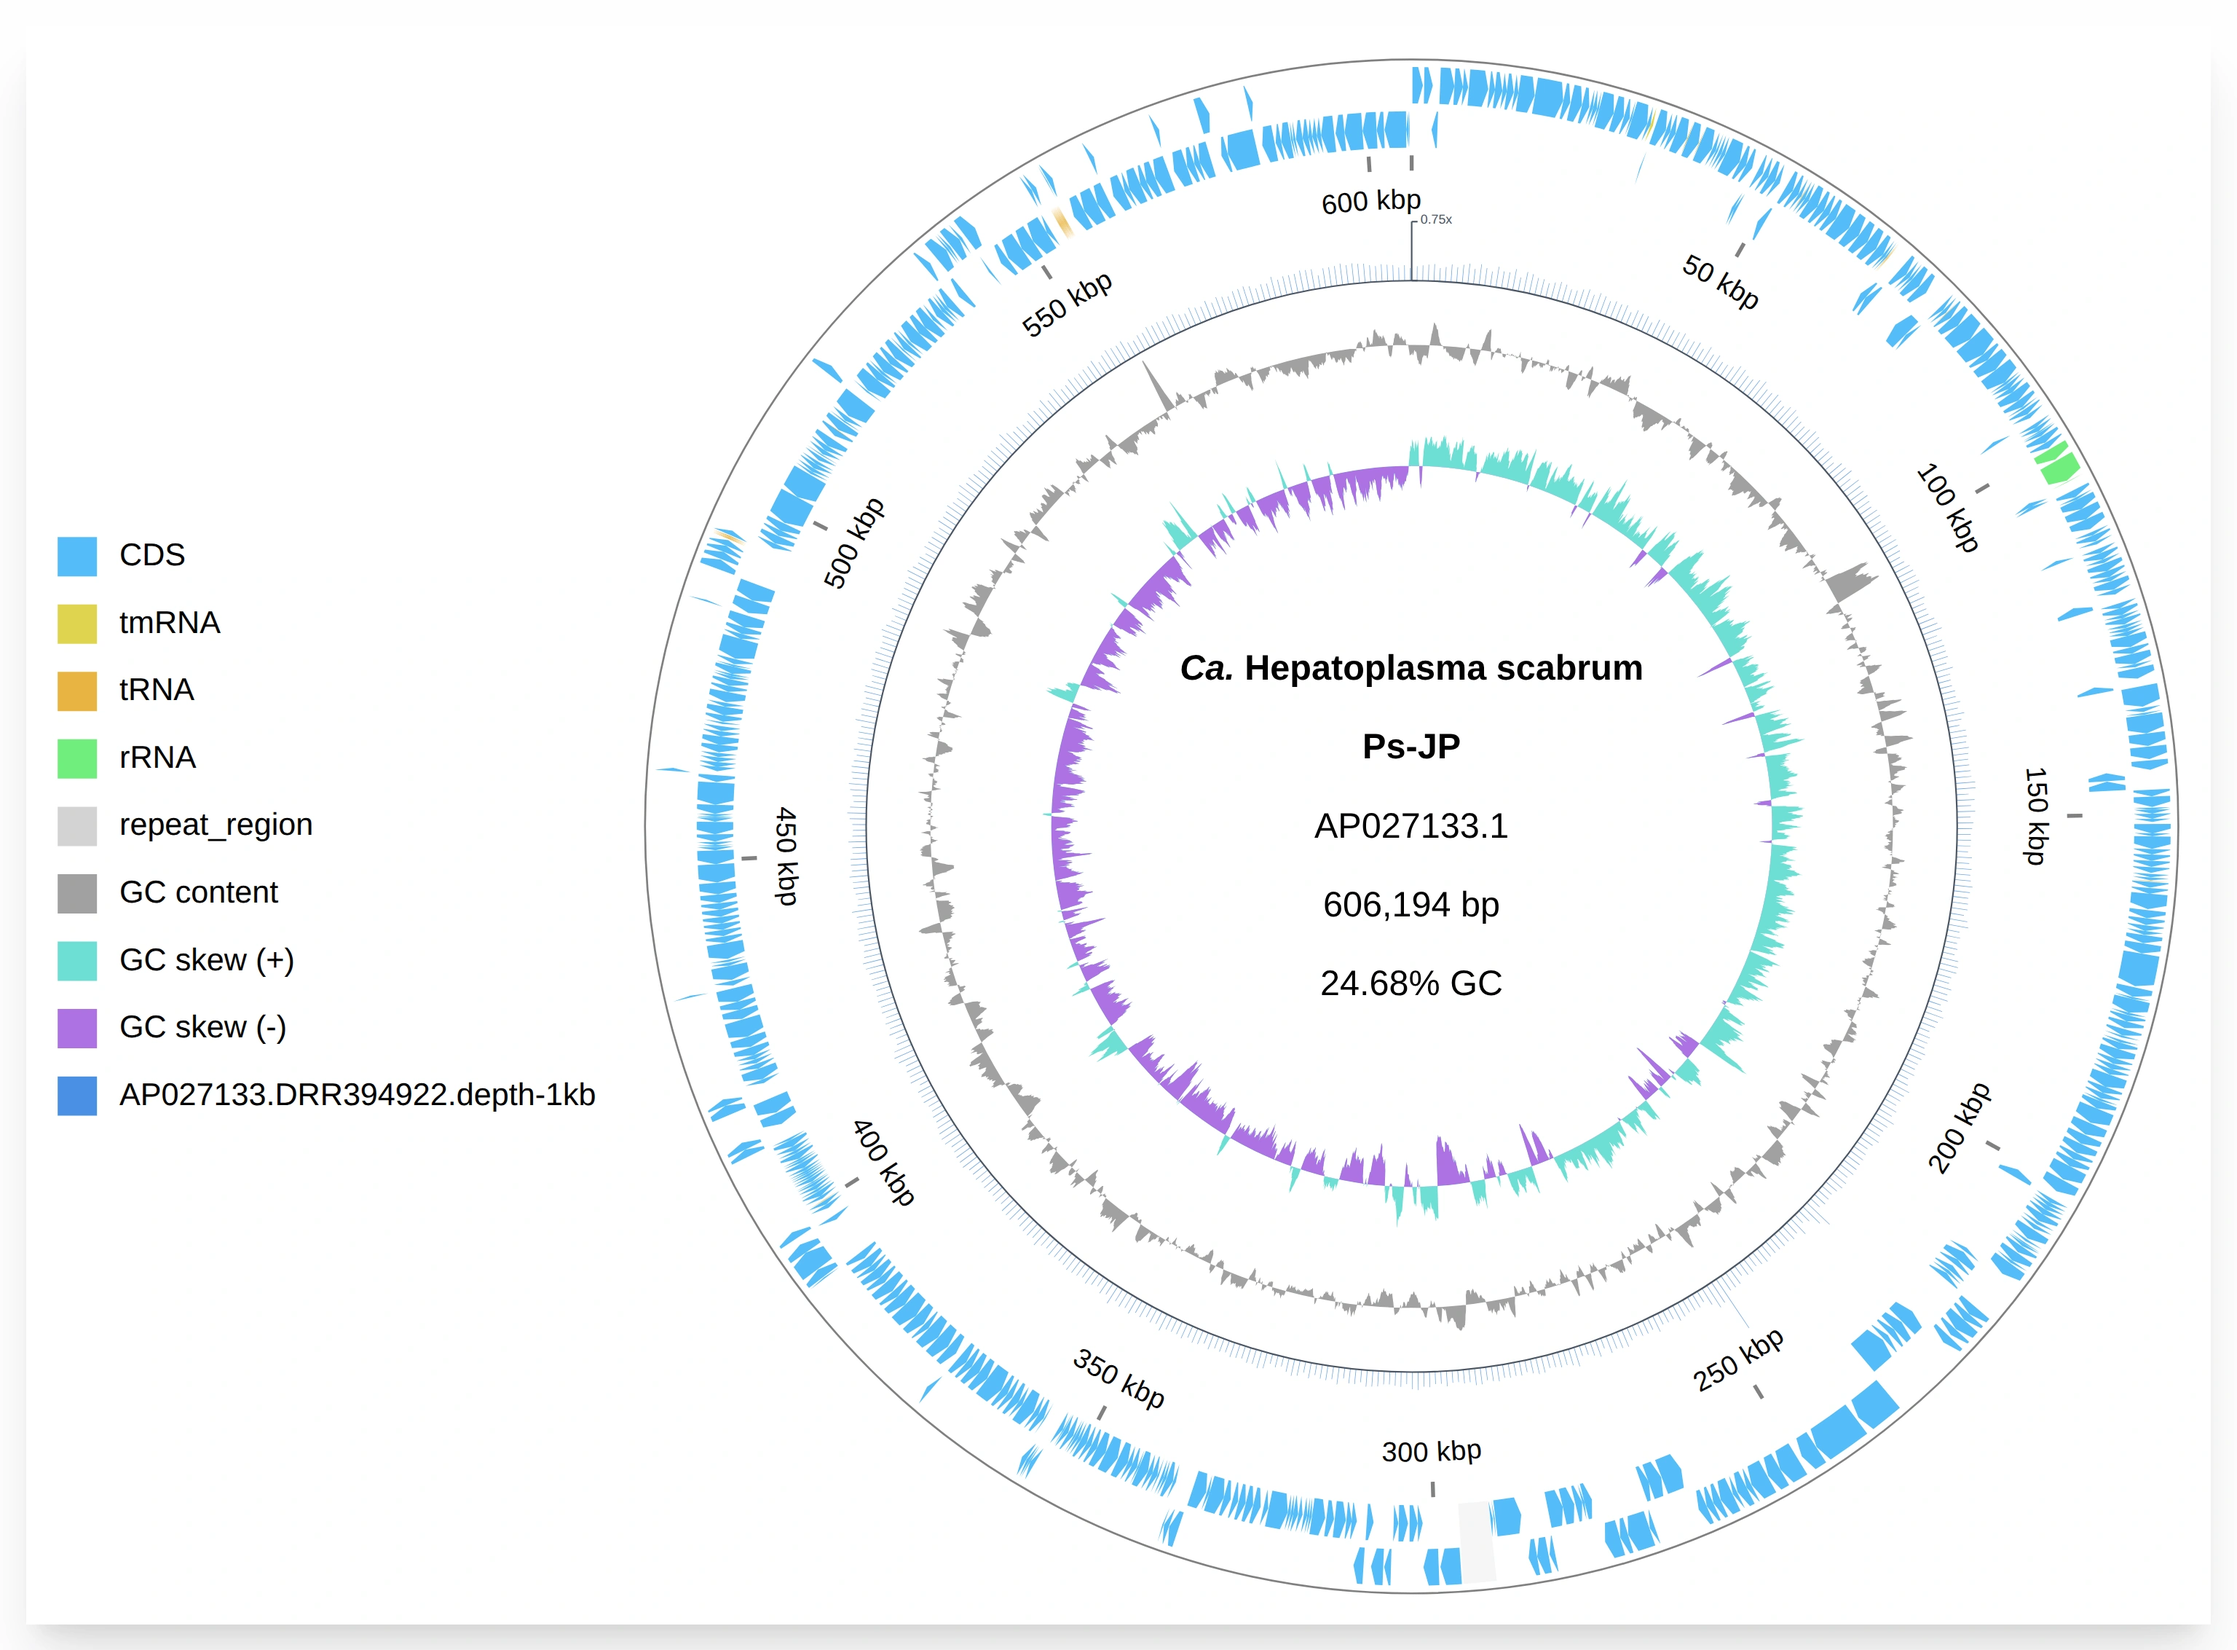
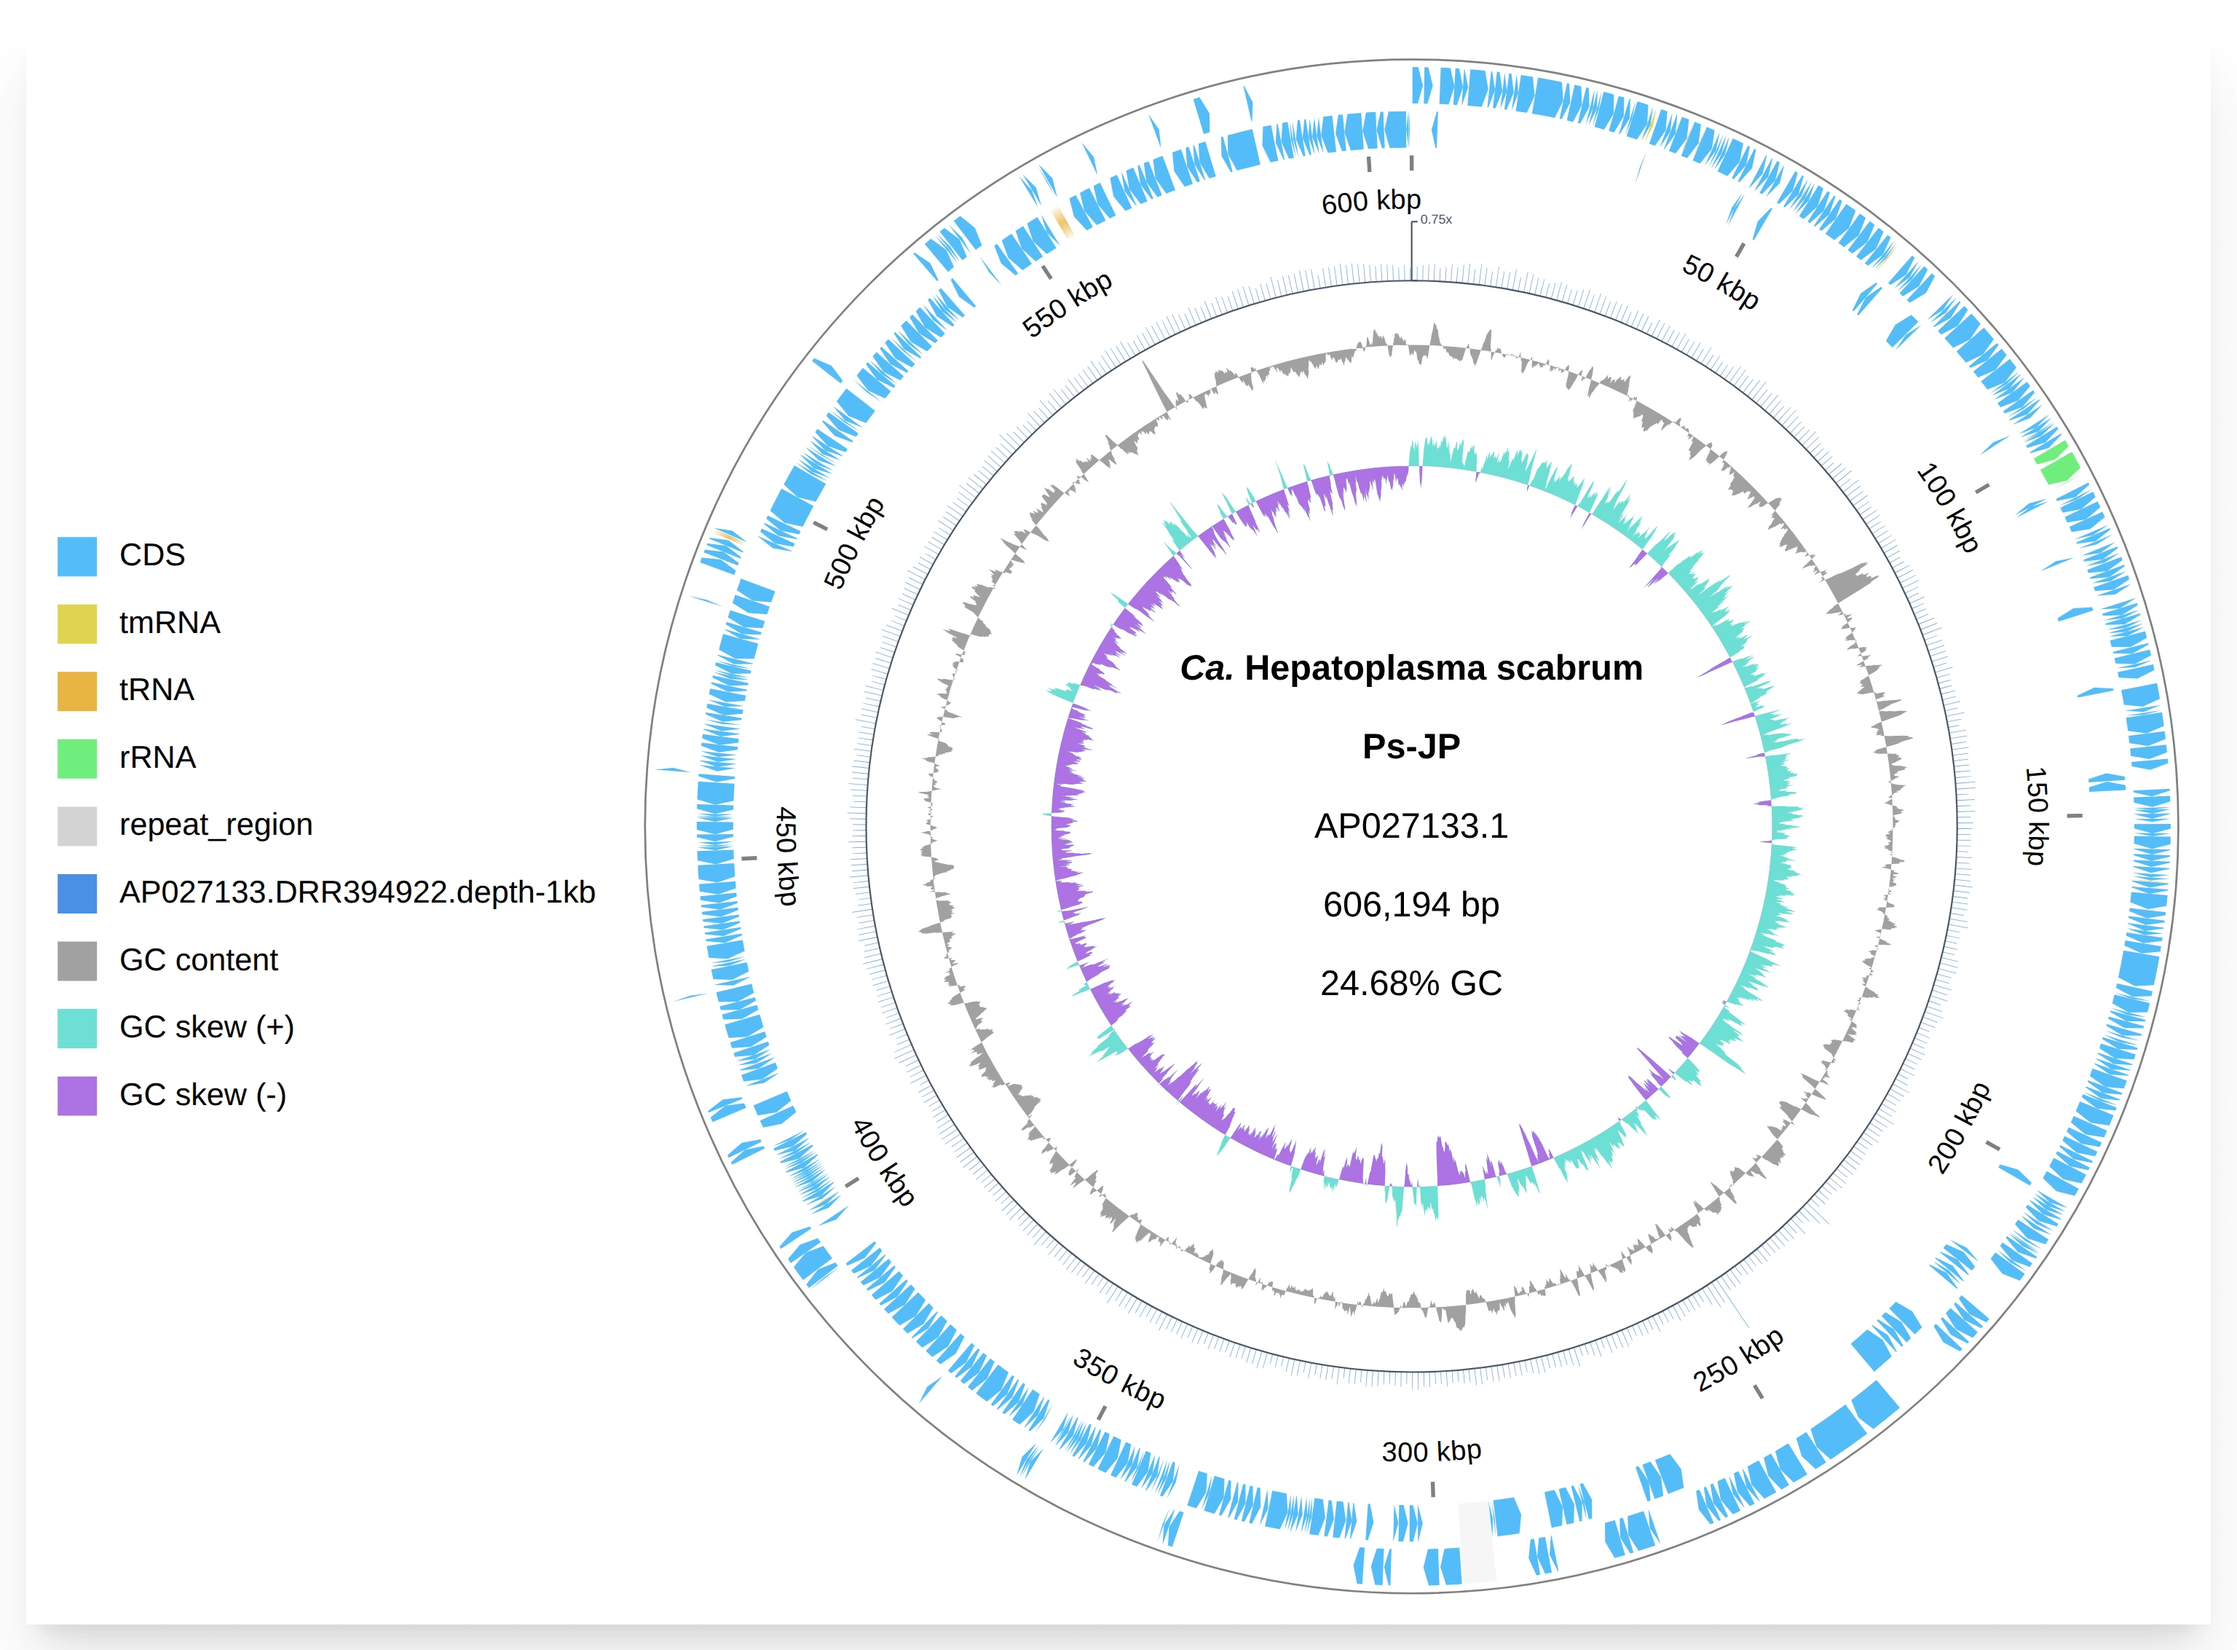
Re-capture the read-depth tutorial previews with the Depth row in ring order
Steps 4 and 5 of the read-depth Gallery tutorial draw one Depth series
without a track stack; their previews now list the Depth row between
repeat_region and GC content, as steps 6 and 7 already do. Captured with
tools/capture_gallery_tutorial_screenshots.py.

Changed region(s): [[0.0, 0.5254, 0.2812, 0.6799]]

diff --git a/CHANGELOG.md b/CHANGELOG.md
@@ -21,6 +21,12 @@ write-up of a release.
   placed by the width of the italic words (OV-2808). A name or label with other
   markup, or with `<`, `>`, or `&` elsewhere, is still drawn as written
   (OV-2760).
+- Fixed: a Circular figure with one Depth series and no custom track stack
+  listed the Depth row last in the Legend, after GC skew, although its ring is
+  drawn between the features and GC content. Setting a Depth width (in the Web
+  app, or `--depth_width` in the CLI) moved the row up, so the Legend changed
+  order between two Generates. The Depth rows now follow the ring order in
+  every case, in the CLI, the Python API, and the Web app (OV-2823).
 - Fixed (Web app): a mouse wheel zoom while a pan of the Result was under way
   showed the figure back where the pan began until the pointer moved or the
   button was released. The figure now stays where the pan has moved it while
